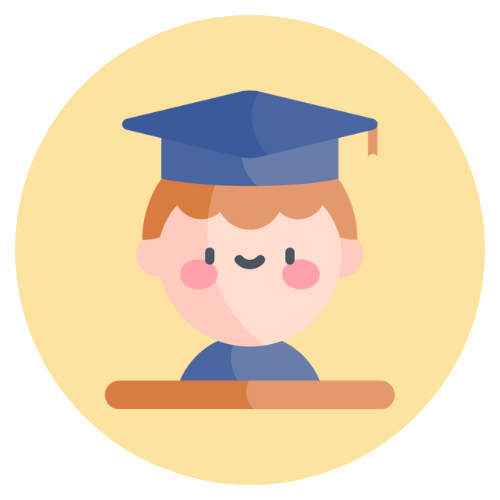
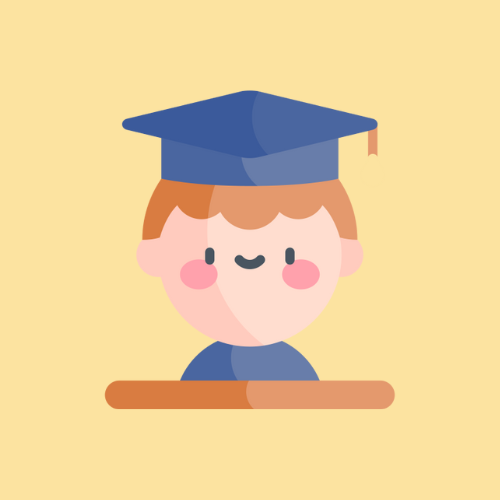
Ajustando imagens de monitores/perfil

diff --git a/src/components/organism/SummarySchedule/index.tsx b/src/components/organism/SummarySchedule/index.tsx
@@ -1,6 +1,6 @@
 import React, { useEffect, useState } from 'react'
 import { CancelButton, CreateModal, InfoTextNoWrap, PageSubtitle, PageTitle, PDFButton, Photo, StylezedButton, Subcontainer, ViewButton, Windows } from '~/components'
-import { imageMap, defaultPhoto } from '~/../archives/photoMapper'
+import { defaultPhotoContact, imageMapContact } from '~/../archives/photoContacts'
 import { ScrollView } from 'react-native-gesture-handler'
 import { useAgendamento } from '~/../archives/monitoringHours'
 import { useAgendaActions } from '~/services/useAgendaActions'
@@ -10,6 +10,7 @@ import * as Print from 'expo-print'
 import * as Sharing from 'expo-sharing'
 import { API_URL } from '~/configs/config'
 import HTMLListaPresenca from '~/services/HTMLListaPresenca'
+import { defaultPhoto, imageMap } from '~/../archives/photoMapper'
 
 const Calendar = require('~/../assets/Calendar.png')
 const Clock = require( '~/../assets/Clock.png')
@@ -185,7 +186,7 @@ export const SummarySchedule = ({ navigation }) => {
         </>
     }
     else if (userType == "Aluno"){return (
-    <Subcontainer mgLeft='0' maxHgt='75' align='center' >
+    <Subcontainer mgLeft='40' maxHgt='75' align='center'>
     <ScrollView>
 
         {monitoring.map((item) => (
@@ -205,7 +206,7 @@ export const SummarySchedule = ({ navigation }) => {
                         wdt='40'
                         mgTop='0'
                         mgLeft='15'
-                        source={imageMap[item.icon || 1]} 
+                        source={imageMap[item.photo || defaultPhoto]}
                     />
                     <PageTitle
                         mgTop='0'
@@ -258,7 +259,7 @@ export const SummarySchedule = ({ navigation }) => {
 
         <Subcontainer mgLeft='0' mgTop='10' bg='darkGreen' dir='row' maxHgt='16' bdRd='0' align='center' justify='flex-start'>
             <Photo
-                source={imageMap[item.photo || 1]}
+                source={imageMapContact[item.photo || 1]}
                 wdt='35'
                 hgt='35'
                 mgTop='0'
@@ -345,7 +346,7 @@ export const SummarySchedule = ({ navigation }) => {
                         wdt='40'
                         mgTop='0'
                         mgLeft='15'
-                        source={imageMap[item.icon || 1]} 
+                        source={imageMapContact[item.icon || 1]} 
                     />
                     <PageTitle
                         mgTop='0'

diff --git a/src/screens/EditPerfilScreen/index.tsx b/src/screens/EditPerfilScreen/index.tsx
@@ -6,7 +6,7 @@ import { Keyboard, TouchableOpacity, TouchableWithoutFeedback } from 'react-nati
 import * as SecureStore from 'expo-secure-store'
 import { API_URL } from '~/configs/config'
 import { useUser } from '~/services/userContext'
-import { imageMap, defaultPhoto } from '~/../archives/photoMapper'
+import { imageMapContact, defaultPhotoContact } from '~/../archives/photoContacts'
 
 export const EditPerfilScreen = ({ navigation }) => {
   const { isDark } = useTheme()
@@ -18,7 +18,6 @@ export const EditPerfilScreen = ({ navigation }) => {
   const [userData, setUserData] = useState<{ nome: string; foto: number; curso: string } | null>(null)
   const [photoModalVisible, setPhotoModalVisible] = useState(false)
   const [selectedPhotoId, setSelectedPhotoId] = useState<number | null>(null)
-
 
   useEffect(() => {
     const loadUser = async () => {
@@ -95,13 +94,13 @@ export const EditPerfilScreen = ({ navigation }) => {
         <TouchableOpacity onPress={() => setPhotoModalVisible(true)}>
         {userData && (
           <EditPhoto
-            idFoto={selectedPhotoId ?? userData.foto}
+            source={imageMapContact[selectedPhotoId ?? userData?.foto] ?? defaultPhotoContact}
             hgt='145'
             wdt='100'
             bdRd='20'
             mgLeft='40'
             mgTop='10'
-        />
+          />
         )}
         </TouchableOpacity>
 
@@ -188,7 +187,7 @@ export const EditPerfilScreen = ({ navigation }) => {
           visible={photoModalVisible}
           onClose={() => setPhotoModalVisible(false)}
           onSelect={(photoId) => setSelectedPhotoId(photoId)}
-          options={[1, 2, 3, 4, 5, 6, 7, 8, 9]}
+          options={[1, 2, 3, 4, 5, 6, 7, 8, 9, 10, 11, 12]}
         />
 
       </Container>

diff --git a/src/components/atoms/Photo/index.tsx b/src/components/atoms/Photo/index.tsx
@@ -17,7 +17,7 @@ interface PhotoProps {
 export const Photo = ({ source, idFoto, wdt, hgt, mgTop, mgLeft, bdRd }: PhotoProps) => {
 return (
     <PhotoStyle 
-        source={source || imageMap[idFoto || 1]}
+        source={source || imageMap[idFoto || defaultPhoto]}
         wdt={wdt}
         hgt={hgt}
         mgTop={mgTop}
@@ -26,10 +26,10 @@ return (
     />
 )}
 
-export const ClassIcon = ({ materiaFoto, wdt, hgt, mgTop, mgLeft, bdRd }: PhotoProps) => {
+export const ClassIcon = ({ source, materiaFoto, wdt, hgt, mgTop, mgLeft, bdRd }: PhotoProps) => {
 return (
     <PhotoStyle 
-        source={imageMap[materiaFoto || 1]}
+        source={source || imageMap[materiaFoto || defaultPhoto]}
         wdt={wdt}
         hgt={hgt}
         mgTop={mgTop}
@@ -38,10 +38,10 @@ return (
     />
 )}
 
-export const EditPhoto = ({ idFoto, wdt, hgt, mgTop, mgLeft, bdRd }: PhotoProps) => {
+export const EditPhoto = ({ source, idFoto, wdt, hgt, mgTop, mgLeft, bdRd }: PhotoProps) => {
 return (
     <PhotoStyle 
-        source={imageMapContact[idFoto || 1]}
+        source={source || imageMapContact[idFoto || defaultPhotoContact]}
         wdt={wdt}
         hgt={hgt}
         mgTop={mgTop}
@@ -50,10 +50,10 @@ return (
     />
 )}
 
-export const PhotoModal = ({ idFoto, wdt, hgt, mgTop, mgLeft, bdRd }: PhotoProps) => {
+export const PhotoModal = ({ source, idFoto, wdt, hgt, mgTop, mgLeft, bdRd }: PhotoProps) => {
     return (
         <PhotoStyle 
-            source={imageMap[idFoto || 1]}
+            source={source || imageMapContact[idFoto || defaultPhotoContact]}
             wdt={wdt}
             hgt={hgt}
             mgTop={mgTop}

diff --git a/src/components/organism/PhotoSelectorModal/index.tsx b/src/components/organism/PhotoSelectorModal/index.tsx
@@ -1,8 +1,8 @@
 import React, { useState } from 'react'
-import { Modal, View } from 'react-native'
-import { ModalContainer, Photo, Subcontainer } from '~/components/atoms'
-import { imageMap, defaultPhoto } from '~/../archives/photoMapper'
-import { ModalContent, ModalTitle, ScrollableContent, OptionButton, OptionText, CloseButton, CloseButtonText } from '~/components/atoms/ModalSelector/styles'
+import { View } from 'react-native'
+import { Photo } from '~/components/atoms'
+import { imageMapContact } from '~/../archives/photoContacts'
+import { ModalTitle, ScrollableContent, OptionButton, OptionText, CloseButton, CloseButtonText } from '~/components/atoms/ModalSelector/styles'
 import { CreateModal } from '~/components/molecules'
 
 interface PhotoSelectorModalProps {
@@ -46,7 +46,7 @@ export const PhotoSelectorModal: React.FC<PhotoSelectorModalProps> = ({ visible,
                 }}
               >
                 <Photo 
-                  source={imageMap[photoId]} 
+                  source={imageMapContact[photoId]} 
                   wdt='50'
                   hgt='50'
                   mgTop='0'

diff --git a/src/components/molecules/MonitorSelector/index.tsx b/src/components/molecules/MonitorSelector/index.tsx
@@ -2,11 +2,11 @@ import React, { useEffect, useState } from 'react'
 import { Text } from 'react-native'
 import { ScrollView } from 'react-native-gesture-handler'
 import { Divider, ListOptionButton, PageSubtitle, Subcontainer } from '~/components/atoms'
-import { imageMap, defaultPhoto } from '~/../archives/photoMapper'
 import { useTheme } from '~/context/ThemeContext'
 import { theme } from '~/styles'
 import { useMonitors } from '~/../archives/monitors'
 import { API_URL } from '~/configs/config'
+import { defaultPhotoContact, imageMapContact } from '~/../archives/photoContacts'
 
 export const MonitorList = ({ onMonitorSelected, filterWeekday }) => {
   const [monitorias, setMonitorias] = useState([])
@@ -73,7 +73,7 @@ export const MonitorList = ({ onMonitorSelected, filterWeekday }) => {
               mgTop='5'
               color={textColor}
               bg={isSelected ? 'darkRed' : 'white'}
-              source={imageMap[item.photo || 1]}
+              source={imageMapContact[item.photo || defaultPhotoContact]}
               fontSize='14'
               labelComponent={
                 <Text

diff --git a/archives/photoMapper.tsx b/archives/photoMapper.tsx
@@ -1,13 +1,13 @@
 export const imageMap: Record<number, any> = {
-    1: require('~/../assets/Bag.png'),
-    2: require('~/../assets/Helmet.png'),
-    3: require('~/../assets/Book.png'),
-    4: require('~/../assets/Blackboard.png'),
-    5: require('~/../assets/Certificate.png'),
-    6: require('~/../assets/Computer.png'),
-    7: require('~/../assets/Light.png'),
-    8: require('~/../assets/RubiksCube.png'),
-    9: require('~/../assets/World.png'),
-  }
+  1: require('~/../assets/Bag.png'),
+  2: require('~/../assets/Helmet.png'),
+  3: require('~/../assets/Book.png'),
+  4: require('~/../assets/Blackboard.png'),
+  5: require('~/../assets/Certificate.png'),
+  6: require('~/../assets/Computer.png'),
+  7: require('~/../assets/Light.png'),
+  8: require('~/../assets/RubiksCube.png'),
+  9: require('~/../assets/World.png'),
+}
   
 export const defaultPhoto = require('~/../assets/Bag.png')

diff --git a/src/components/organism/PerfilCard/index.tsx b/src/components/organism/PerfilCard/index.tsx
@@ -1,8 +1,9 @@
-import React, { useEffect, useState } from 'react'
+import React from 'react'
 import { Windows, Subcontainer, Photo, ContactText, InfoText  } from '~/components'
 import * as SecureStore from 'expo-secure-store'
 import { PixelRatio } from 'react-native'
 import { useUser } from '~/services/userContext'
+import { imageMapContact } from '~/../archives/photoContacts'
 
 
 export const PerfilCard = ({ navigation }) => {
@@ -40,6 +41,7 @@ export const PerfilCard = ({ navigation }) => {
         return <InfoText>Carregando...</InfoText>
       }
   */
+
     return (
       <Windows
         hgt={cardHeight}
@@ -48,7 +50,7 @@ export const PerfilCard = ({ navigation }) => {
         mgTop='0'
         >
         <Photo
-          idFoto = {user.idFoto}
+          source = {imageMapContact[user?.idFoto]}
           hgt='125'
           wdt='80'
           bdRd='20'

diff --git a/src/components/organism/Header/index.tsx b/src/components/organism/Header/index.tsx
@@ -5,6 +5,7 @@ import { Photo, HeaderText, LogoHeader, Subcontainer } from '~/components/atoms'
 import { useTheme } from '~/context/ThemeContext'
 import * as SecureStore from 'expo-secure-store'
 import { useUser } from '~/services/userContext'
+import { imageMapContact } from '~/../archives/photoContacts'
 
 const HeaderLogoDark = require('~/../assets/Light_Cromo_LogoBKG.png')
 const HeaderLogoLight = require('~/../assets/Dark_Cromo_LogoBKG.png')
@@ -32,7 +33,7 @@ export const Headers = () => {
         <HeaderContainerStyle>
 
             <Photo
-                idFoto = {user.idFoto}
+                source = {imageMapContact[user?.idFoto]}
                 wdt='45'
                 hgt='45'    
             />

diff --git a/archives/photoContacts.tsx b/archives/photoContacts.tsx
@@ -11,6 +11,7 @@ export const imageMapContact: Record<number, any> = {
   10: require('~/../assets/Contato_10.png'),
   11: require('~/../assets/Contato_11.png'),
   12: require('~/../assets/Contato_12.png'),
+  13: require('~/../assets/Contato_13.png')
 }
-  
-export const defaultPhotoContact = require('~/../assets/Contato_1.png')
+
+export const defaultPhotoContact = require('~/../assets/Contato_13.png')

diff --git a/src/components/organism/HomeGrid/index.tsx b/src/components/organism/HomeGrid/index.tsx
@@ -180,7 +180,7 @@ export const ClassGrid = () => {
                             hgt='35'
                             wdt='37'
                             mgLeft='3'
-                            source={imageMapContact[item.photo || 1]}
+                            source={imageMapContact[item.photo || defaultPhotoContact]}
                         />
 
                         <TableGrid 

diff --git a/src/screens/SummaryScheduleScreen/index.tsx b/src/screens/SummaryScheduleScreen/index.tsx
@@ -9,7 +9,7 @@ export const SummaryScheduleScreen = ({ navigation }) => {
       <PageTitle>Monitorias</PageTitle>
       <PageSubtitle>Minhas monitorias agendadas</PageSubtitle>
 
-      <Subcontainer align='center' mgLeft='15' mgTop='0'>
+      <Subcontainer align='center' mgLeft='0' mgTop='0'>
         <SummarySchedule navigation={navigation} />
       </Subcontainer>
     </Container>

diff --git a/src/configs/config.ts b/src/configs/config.ts
@@ -1,2 +1,2 @@
-//export const API_URL = 'http://192.168.0.27:3000' //Abner
-export const API_URL = 'http://192.168.0.103:3000' //Sara
+export const API_URL = 'http://192.168.0.27:3000' //Abner
+//export const API_URL = 'http://192.168.0.103:3000' //Sara
